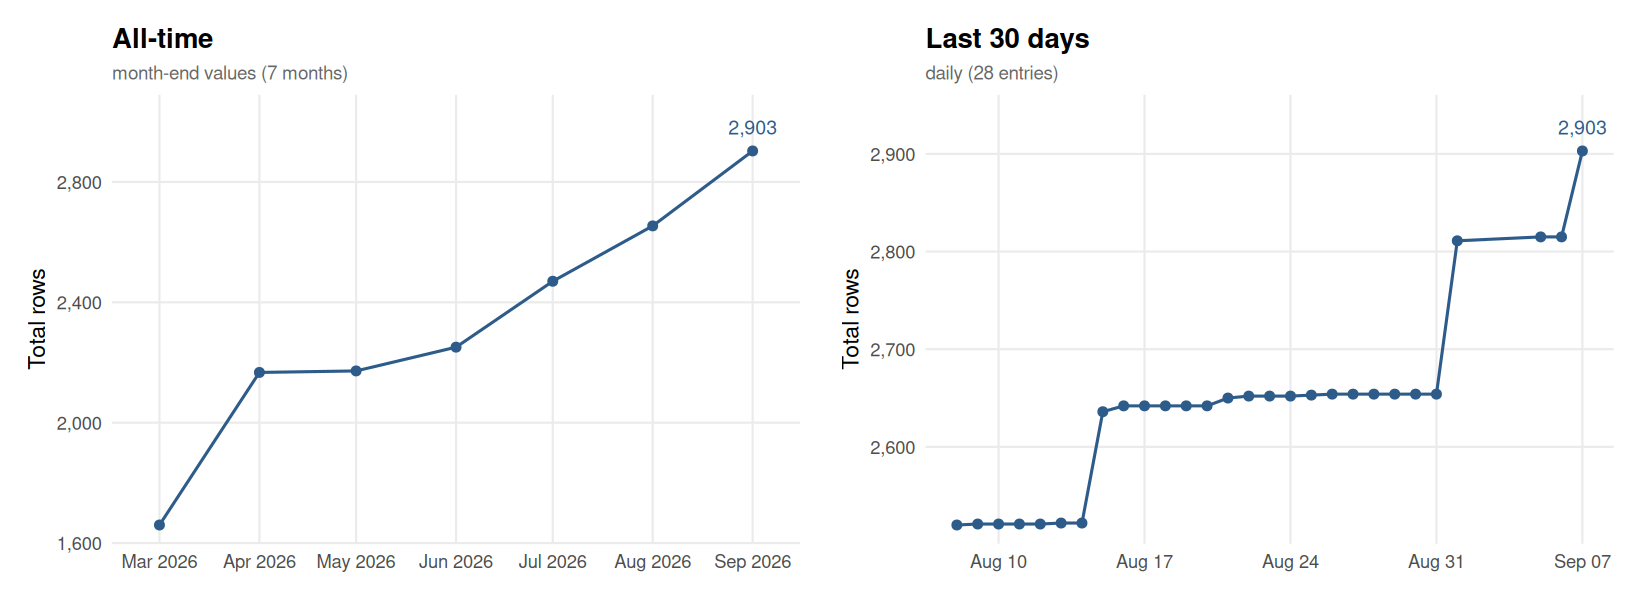
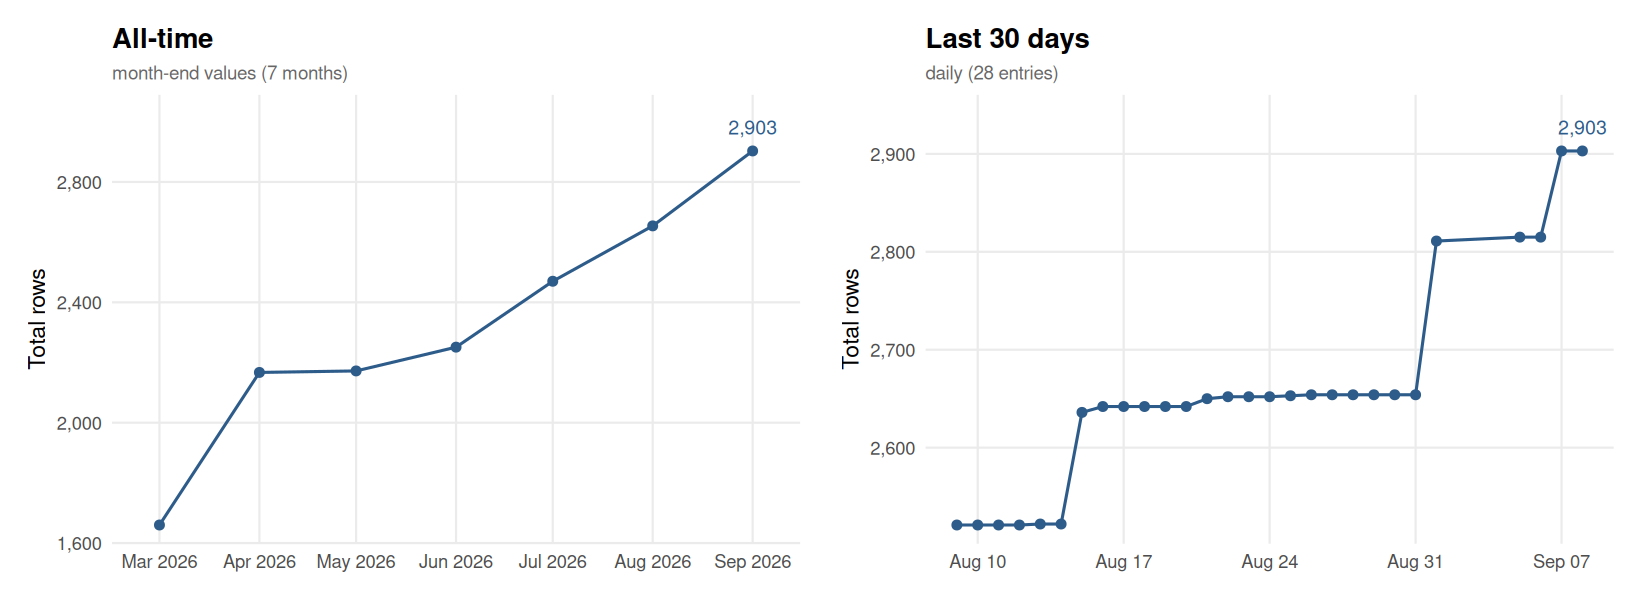
Update flora.csv [automated]

diff --git a/README.md b/README.md
@@ -438,14 +438,15 @@ For API issues:
 This chart is automatically updated after each pipeline run, showing the size of `output/flora.csv` over time.
 
 <!-- FLORA_UPDATE_LOG_START -->
-> **Latest (2026-09-07):** Total = 2,903 | Replications = 2,556 | Reproductions = 347
+> **Latest (2026-09-08):** Total = 2,903 | Replications = 2,556 | Reproductions = 347
 
 ![FLoRA dataset size over time](output/flora_history.png)
 
-<details><summary>Full history (165 entries)</summary>
+<details><summary>Full history (166 entries)</summary>
 
 | Date | Total | Replications | Reproductions |
 |------|------:|-------------:|--------------:|
+| 2026-09-08 | 2903 | 2556 | 347 |
 | 2026-09-07 | 2903 | 2556 | 347 |
 | 2026-09-06 | 2815 | 2526 | 289 |
 | 2026-09-05 | 2815 | 2526 | 289 |
